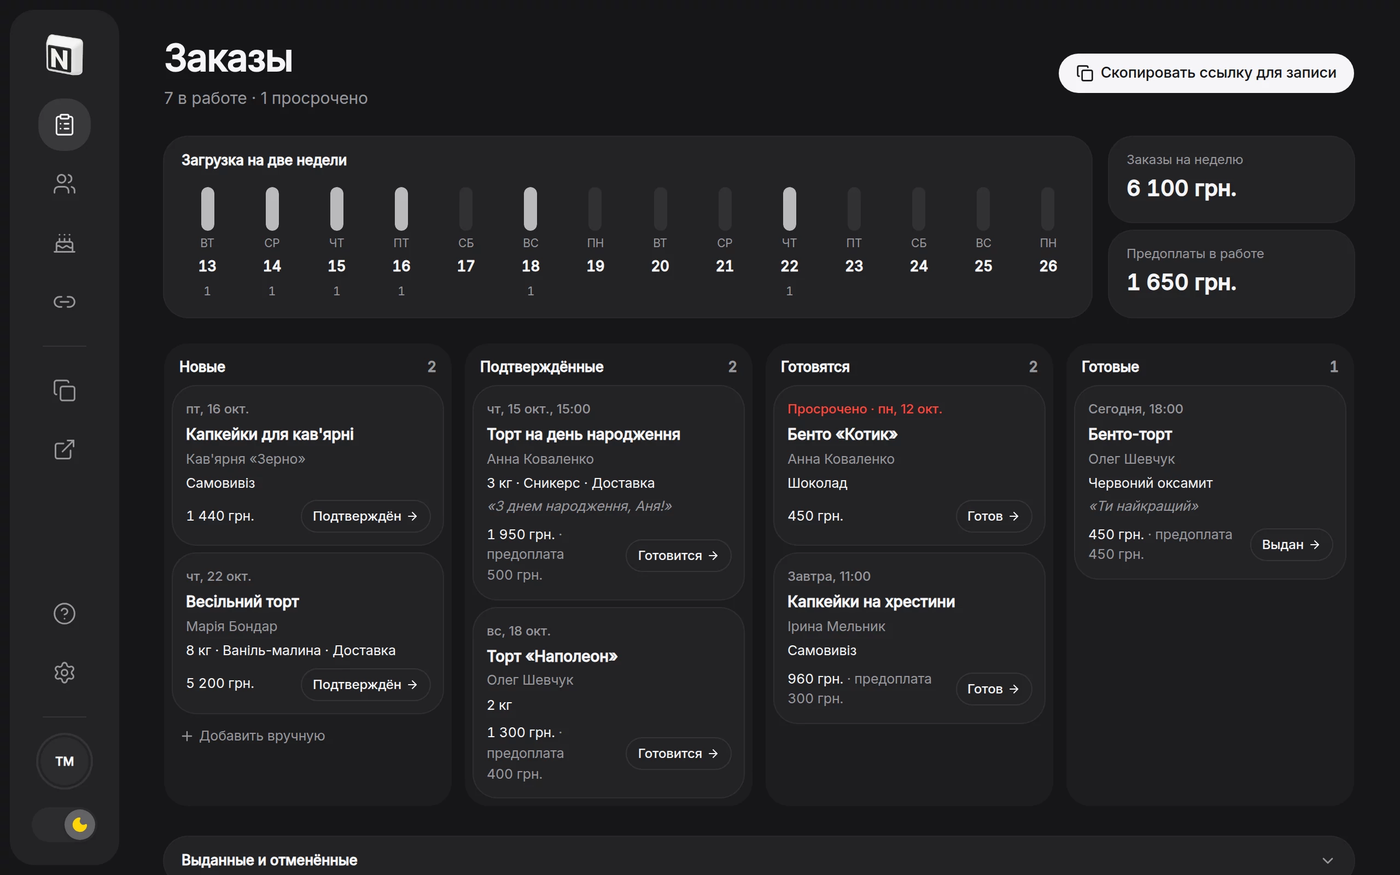
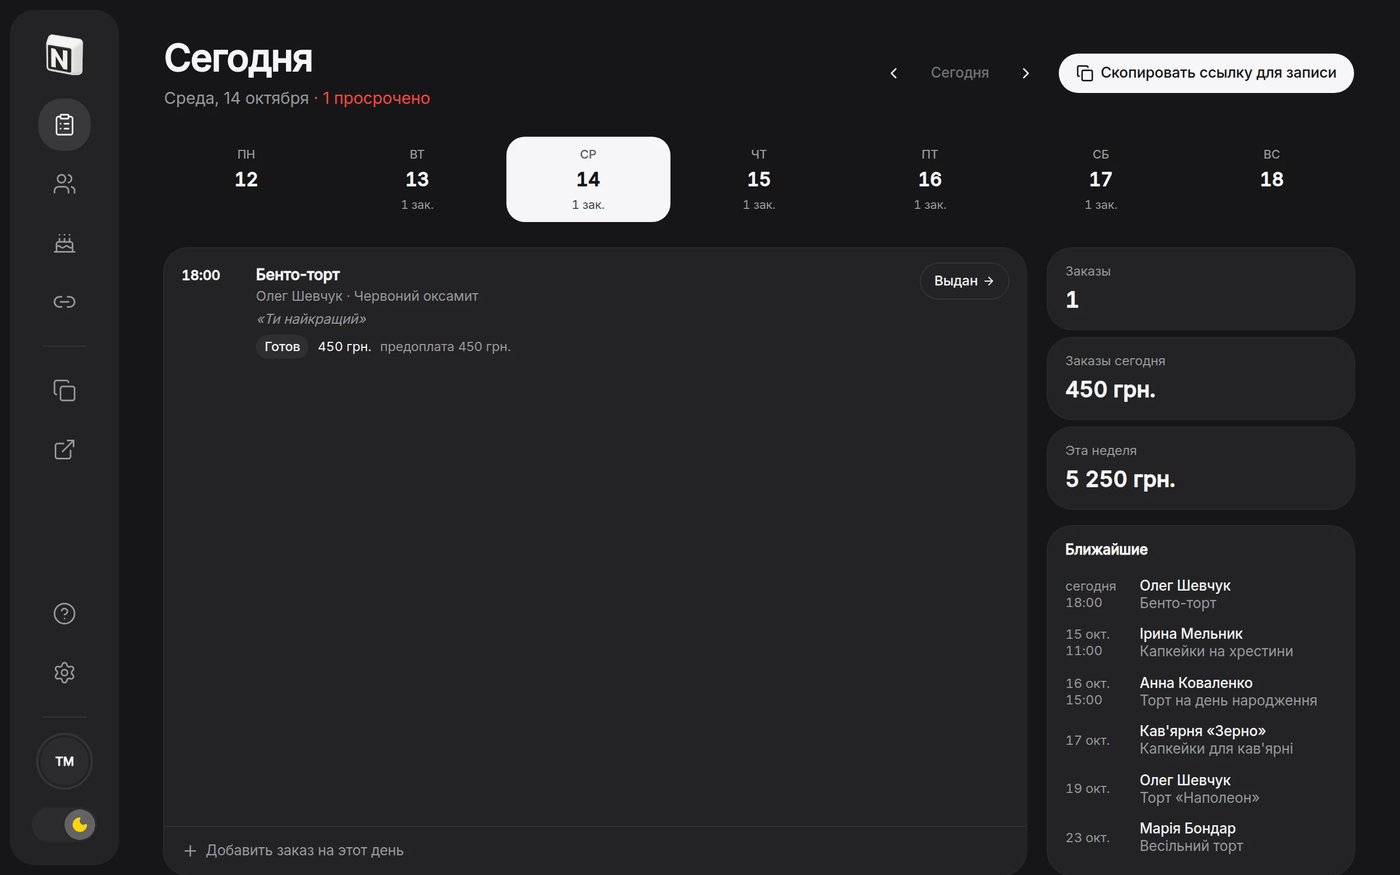
One dashboard look for every niche (#268)
- Cakes get the same screen as appointments: the day's title, its week with order
  counts, the day's orders (time or all day, stage, next step in one tap), the day's
  and week's sums and what's coming up
- The appointments timeline no longer draws a line along the card's top edge
- Landing: new cakes screenshots and wording without the old board

Claude-Session: https://claude.ai/code/session_01XHHjZcsFk6KcB3zBR7AfAW

diff --git a/src/components/crm/OrdersHome.tsx b/src/components/crm/OrdersHome.tsx
@@ -1,21 +1,21 @@
 "use client"
 
 import { useMemo, useState } from "react"
-import { ArrowRightIcon, ChevronDownIcon, PlusIcon } from "lucide-react"
+import { ArrowRightIcon, ChevronLeftIcon, ChevronRightIcon, PlusIcon } from "lucide-react"
 import type { BookingPreset } from "@/components/crm/BookingDialog"
 import { Stat } from "@/components/crm/AppointmentsHome"
 import {
-  BOARD_STATUSES, BOARD_TITLES, dayKey, money, nextOrderStatus, setBookingStatus, statusLabel,
-  type CrmBooking, type CrmData, type OrderStatus,
+  BOARD_STATUSES, dayKey, money, nextOrderStatus, setBookingStatus, statusLabel,
+  type CrmBooking, type CrmData,
 } from "@/lib/crm"
 import { cn } from "@/lib/utils"
 import { useT } from "@/lib/i18n"
 
-const LOAD_DAYS = 14
-
+function startOfDay(d: Date) { const x = new Date(d); x.setHours(0, 0, 0, 0); return x }
 function addDays(d: Date, n: number) { const x = new Date(d); x.setDate(x.getDate() + n); return x }
+function monday(d: Date) { return addDays(startOfDay(d), -((d.getDay() + 6) % 7)) }
 
-/** Cakes: orders on a board by stage, how loaded the next two weeks are, and what's handed over. */
+/** Cakes: the same screen as appointments — a day, its week, the day's orders with their next step, and what's coming. */
 export function OrdersHome({ data, onNew, onOpen, onChanged, cta }: {
   data: CrmData
   /** The main button: the booking link. */
@@ -25,33 +25,23 @@ export function OrdersHome({ data, onNew, onOpen, onChanged, cta }: {
   onChanged: (booking: CrmBooking) => void
 }) {
   const { t, locale } = useT()
-  const [day, setDay] = useState<string | null>(null)
-  const [showDone, setShowDone] = useState(false)
+  const [day, setDay] = useState(() => startOfDay(new Date()))
   const [error, setError] = useState<string | null>(null)
 
   const today = new Date()
   const todayKey = dayKey(today)
-  const tomorrowKey = dayKey(addDays(today, 1))
+  const isToday = dayKey(day) === todayKey
   const clients = useMemo(() => new Map(data.clients.map((c) => [c.id, c])), [data.clients])
   const orders = useMemo(() => data.bookings.filter((b) => b.kind === "order" && b.due_on), [data.bookings])
   const open = orders.filter((o) => (BOARD_STATUSES as string[]).includes(o.status))
-  const finished = orders.filter((o) => o.status === "delivered" || o.status === "cancelled")
-    .sort((a, b) => b.due_on!.localeCompare(a.due_on!)).slice(0, 30)
-  const load = Array.from({ length: LOAD_DAYS }, (_, i) => {
-    const k = dayKey(addDays(today, i))
-    return { key: k, date: addDays(today, i), n: open.filter((o) => o.due_on === k).length }
-  })
-  const most = Math.max(1, ...load.map((d) => d.n))
   const overdue = open.filter((o) => o.due_on! < todayKey && o.status !== "ready")
-  const shown = day ? open.filter((o) => o.due_on === day) : open
-  const weekEnd = dayKey(addDays(today, 6))
-  const weekMoney = orders.filter((o) => o.status !== "cancelled" && o.due_on! >= todayKey && o.due_on! <= weekEnd).reduce((s, o) => s + (o.price ?? 0), 0)
-
-  const dueLabel = (o: CrmBooking) => {
-    const d = o.due_on === todayKey ? t("Today") : o.due_on === tomorrowKey ? t("Tomorrow")
-      : new Date(`${o.due_on}T00:00:00`).toLocaleDateString(locale, { weekday: "short", day: "numeric", month: "short" })
-    return o.due_time ? `${d}, ${o.due_time}` : d
-  }
+  const week = Array.from({ length: 7 }, (_, i) => addDays(monday(day), i))
+  const weekKeys = new Set(week.map(dayKey))
+  const dayOrders = orders.filter((o) => o.due_on === dayKey(day))
+    .sort((a, b) => Number(a.status === "cancelled") - Number(b.status === "cancelled") || (a.due_time || "99").localeCompare(b.due_time || "99"))
+  const dayMoney = dayOrders.filter((o) => o.status !== "cancelled").reduce((s, o) => s + (o.price ?? 0), 0)
+  const weekMoney = orders.filter((o) => o.status !== "cancelled" && weekKeys.has(o.due_on!)).reduce((s, o) => s + (o.price ?? 0), 0)
+  const upcoming = open.filter((o) => o.due_on! >= todayKey).sort((a, b) => (a.due_on! + (a.due_time || "99")).localeCompare(b.due_on! + (b.due_time || "99"))).slice(0, 6)
 
   async function advance(o: CrmBooking) {
     const next = nextOrderStatus(o.status)
@@ -71,108 +61,106 @@ export function OrdersHome({ data, onNew, onOpen, onChanged, cta }: {
 
   return (
     <div className="mx-auto flex min-h-0 w-full max-w-6xl flex-1 flex-col gap-6 p-5 sm:p-8">
-      <div className="flex flex-wrap items-center gap-3">
-        <div className="min-w-0 flex-1">
-          <h1 className="text-[30px] leading-tight font-semibold tracking-[-0.02em] sm:text-[34px]">{t("Orders")}</h1>
-          <p className="mt-1 text-[15px] text-muted-foreground">{t("{n} in work", { n: open.length })}{overdue.length ? ` · ${t("{n} overdue", { n: overdue.length })}` : ""}</p>
+      {/* day and week, like the appointments screen */}
+      <div className="flex flex-wrap items-center gap-x-3 gap-y-2">
+        <div className="w-full min-w-0 sm:w-auto sm:flex-1">
+          <h1 className="text-[30px] leading-tight font-semibold tracking-[-0.02em] first-letter:uppercase sm:text-[34px]">
+            {isToday ? t("Today") : day.toLocaleDateString(locale, { weekday: "long" })}
+          </h1>
+          <p className="mt-1 text-[15px] text-muted-foreground first-letter:uppercase">
+            {day.toLocaleDateString(locale, { weekday: isToday ? "long" : undefined, day: "numeric", month: "long" })}
+            {overdue.length ? <span className="text-destructive"> · {t("{n} overdue", { n: overdue.length })}</span> : null}
+          </p>
         </div>
-        {cta}
+        <div className="flex items-center gap-1">
+          <button type="button" aria-label={t("Previous day")} onClick={() => setDay(addDays(day, -1))} className="flex size-9 items-center justify-center rounded-lg hover:bg-hover"><ChevronLeftIcon className="size-4" /></button>
+          <button type="button" onClick={() => setDay(startOfDay(new Date()))} disabled={isToday} className="h-9 rounded-lg px-3 text-[13px] font-medium hover:bg-hover disabled:opacity-40">{t("Today")}</button>
+          <button type="button" aria-label={t("Next day")} onClick={() => setDay(addDays(day, 1))} className="flex size-9 items-center justify-center rounded-lg hover:bg-hover"><ChevronRightIcon className="size-4" /></button>
+        </div>
+        <div className="ml-auto sm:ml-0">{cta}</div>
       </div>
 
-      <div className="grid gap-4 lg:grid-cols-[1fr_auto]">
-        {/* the next two weeks */}
-        <div className="rounded-[22px] apple-card p-3">
-          <div className="flex items-center justify-between px-1 pb-2">
-            <p className="text-[13px] font-semibold">{t("Load for two weeks")}</p>
-            {day && <button type="button" onClick={() => setDay(null)} className="text-[12.5px] text-muted-foreground hover:text-foreground">{t("Show all")}</button>}
-          </div>
-          <div className="grid grid-cols-7 gap-1 sm:grid-cols-14">
-            {load.map((d) => (
-              <button key={d.key} type="button" onClick={() => setDay(day === d.key ? null : d.key)} title={d.date.toLocaleDateString(locale, { weekday: "long", day: "numeric", month: "long" })}
-                className={cn("flex flex-col items-center gap-1 rounded-lg py-1.5 transition-colors", day === d.key ? "bg-foreground text-background" : "hover:bg-hover")}>
-                <span className="flex h-10 w-3 items-end overflow-hidden rounded-full bg-foreground/[0.07]">
-                  <span className={cn("w-full rounded-full", day === d.key ? "bg-background" : "bg-foreground/70")} style={{ height: `${(d.n / most) * 100}%` }} />
-                </span>
-                <span className={cn("text-[10.5px] uppercase", day === d.key ? "opacity-70" : "text-muted-foreground")}>{d.date.toLocaleDateString(locale, { weekday: "short" })}</span>
-                <span className="text-[13px] font-semibold tabular-nums">{d.date.getDate()}</span>
-                <span className={cn("h-3.5 text-[11px] tabular-nums", day === d.key ? "opacity-80" : "text-muted-foreground")}>{d.n || ""}</span>
-              </button>
-            ))}
-          </div>
-        </div>
-        <div className="grid grid-cols-2 gap-2 lg:w-56 lg:grid-cols-1">
-          <Stat label={t("Orders this week")} value={money(weekMoney, locale)} />
-          <Stat label={t("Prepaid, waiting")} value={money(open.reduce((s, o) => s + (o.prepaid ?? 0), 0), locale)} />
-        </div>
-      </div>
-
-      {error && <p className="text-sm text-destructive">{error}</p>}
-
-      {/* the board */}
-      <div className="-mx-4 flex min-h-0 gap-3 overflow-x-auto px-4 pb-1 sm:-mx-6 sm:px-6">
-        {BOARD_STATUSES.map((status: OrderStatus) => {
-          const items = shown.filter((o) => o.status === status).sort((a, b) => (a.due_on! + a.due_time).localeCompare(b.due_on! + b.due_time))
+      <div className="grid grid-cols-7 gap-1.5">
+        {week.map((d) => {
+          const k = dayKey(d)
+          const n = orders.filter((o) => o.due_on === k && o.status !== "cancelled").length
+          const selected = k === dayKey(day)
           return (
-            <section key={status} className="flex w-[268px] shrink-0 flex-col gap-2 rounded-2xl bg-foreground/[0.03] p-2 lg:w-auto lg:flex-1 dark:bg-white/[0.03]">
-              <h2 className="flex items-center justify-between px-1.5 pt-1 text-[13px] font-semibold">
-                {t(BOARD_TITLES[status])}<span className="text-muted-foreground tabular-nums">{items.length}</span>
-              </h2>
-              {items.map((o) => {
-                const late = o.due_on! < todayKey && o.status !== "ready"
-                const next = nextOrderStatus(o.status)
-                return (
-                  <article key={o.id} className="group flex flex-col gap-1.5 rounded-2xl apple-card p-3 transition-shadow hover:shadow-md">
-                    <button type="button" onClick={() => onOpen(o)} className="flex flex-col gap-1 text-left">
-                      <span className={cn("text-[12px] font-medium", late ? "text-destructive" : "text-muted-foreground")}>
-                        {late ? `${t("Overdue")} · ` : ""}{dueLabel(o)}
-                      </span>
-                      <span className="text-[14px] leading-snug font-semibold">{o.title}</span>
-                      <span className="truncate text-[12.5px] text-muted-foreground">{(o.client_id && clients.get(o.client_id)?.name) || t("No name")}</span>
-                      {summary(o) && <span className="text-[12.5px] leading-snug">{summary(o)}</span>}
-                      {o.details.inscription && <span className="text-[12.5px] leading-snug text-muted-foreground italic">«{o.details.inscription}»</span>}
-                    </button>
-                    <div className="flex items-center justify-between gap-2 pt-0.5">
-                      <span className="text-[12.5px] tabular-nums">
-                        {money(o.price, locale)}
-                        {o.prepaid ? <span className="text-muted-foreground"> · {t("prepaid {sum}", { sum: money(o.prepaid, locale) })}</span> : null}
-                      </span>
-                      {next && (
-                        <button type="button" onClick={() => advance(o)} title={t("Move to “{status}”", { status: t(statusLabel(next)) })}
-                          className="flex h-7 shrink-0 items-center gap-1 rounded-full px-2.5 text-[12px] font-medium ring-1 ring-border hover:bg-hover">
-                          {t(statusLabel(next))}<ArrowRightIcon className="size-3" />
-                        </button>
-                      )}
-                    </div>
-                  </article>
-                )
-              })}
-              {!items.length && <p className="px-1.5 pb-2 text-[12.5px] text-muted-foreground">{status === "new" ? t("New orders land here.") : "—"}</p>}
-              {status === "new" && (
-                <button type="button" onClick={() => onNew(day ? { dueOn: day } : undefined)} className="flex items-center gap-1 rounded-lg px-1.5 py-1 text-[12.5px] text-muted-foreground hover:bg-hover hover:text-foreground">
-                  <PlusIcon className="size-3.5" />{t("Add by hand")}
-                </button>
-              )}
-            </section>
+            <button key={k} type="button" onClick={() => setDay(d)}
+              className={cn("flex flex-col items-center gap-0.5 rounded-xl py-2 transition-colors", selected ? "bg-foreground text-background" : "hover:bg-hover")}>
+              <span className={cn("text-[11px] font-medium uppercase", selected ? "opacity-70" : "text-muted-foreground")}>{d.toLocaleDateString(locale, { weekday: "short" })}</span>
+              <span className={cn("text-[17px] font-semibold tabular-nums", !selected && k === todayKey && "underline decoration-2 underline-offset-4")}>{d.getDate()}</span>
+              <span className={cn("h-4 text-[11px] tabular-nums", selected ? "opacity-80" : "text-muted-foreground")}>{n ? t("{n} ord.", { n }) : ""}</span>
+            </button>
           )
         })}
       </div>
 
-      {/* handed over and cancelled */}
-      {finished.length > 0 && (
-        <div className="rounded-[22px] apple-card">
-          <button type="button" onClick={() => setShowDone(!showDone)} className="flex w-full items-center justify-between px-4 py-3 text-[13px] font-semibold">
-            {t("Handed over and cancelled")}
-            <ChevronDownIcon className={cn("size-4 text-muted-foreground transition-transform", showDone && "rotate-180")} />
+      {error && <p className="text-sm text-destructive">{error}</p>}
+
+      <div className="grid min-h-0 flex-1 gap-5 xl:grid-cols-[1fr_280px]">
+        {/* the day's orders: a time when there is one, the stage and the next step */}
+        <div className="flex min-h-[360px] flex-col rounded-[22px] apple-card">
+          {dayOrders.map((o, i) => {
+            const next = nextOrderStatus(o.status)
+            const late = o.due_on! < todayKey && (BOARD_STATUSES as string[]).includes(o.status) && o.status !== "ready"
+            const off = o.status === "cancelled"
+            return (
+              <div key={o.id} className={cn("flex items-start gap-3 px-4 py-3.5", i > 0 && "border-t border-border/70")}>
+                <span className="w-14 shrink-0 pt-0.5 text-[12.5px] font-semibold tabular-nums">{o.due_time || <span className="font-normal text-muted-foreground">{t("All day")}</span>}</span>
+                <button type="button" onClick={() => onOpen(o)} className="flex min-w-0 flex-1 flex-col gap-0.5 text-left">
+                  <span className={cn("text-[14px] leading-snug font-semibold", off && "text-muted-foreground line-through")}>{o.title}</span>
+                  <span className="truncate text-[12.5px] text-muted-foreground">{(o.client_id && clients.get(o.client_id)?.name) || t("No name")}{summary(o) ? ` · ${summary(o)}` : ""}</span>
+                  {o.details.inscription && <span className="text-[12.5px] leading-snug text-muted-foreground italic">«{o.details.inscription}»</span>}
+                  <span className="mt-1 flex flex-wrap items-center gap-2 text-[12px]">
+                    <span className={cn("rounded-full px-2 py-0.5 font-medium", late ? "bg-destructive/10 text-destructive" : "bg-foreground/[0.06]")}>{late ? t("Overdue") : t(statusLabel(o.status))}</span>
+                    <span className="tabular-nums">{money(o.price, locale)}</span>
+                    {o.prepaid ? <span className="text-muted-foreground">{t("prepaid {sum}", { sum: money(o.prepaid, locale) })}</span> : null}
+                  </span>
+                </button>
+                {next && (
+                  <button type="button" onClick={() => advance(o)} title={t("Move to “{status}”", { status: t(statusLabel(next)) })}
+                    className="flex h-8 shrink-0 items-center gap-1 rounded-full px-3 text-[12.5px] font-medium ring-1 ring-border hover:bg-hover">
+                    {t(statusLabel(next))}<ArrowRightIcon className="size-3" />
+                  </button>
+                )}
+              </div>
+            )
+          })}
+          {!dayOrders.length && (
+            <div className="m-auto flex flex-col items-center gap-3 p-8 text-center">
+              <p className="text-[13.5px] text-muted-foreground">{t("No orders for this day.")}</p>
+            </div>
+          )}
+          <button type="button" onClick={() => onNew({ dueOn: dayKey(day) })}
+            className="mt-auto flex items-center gap-1.5 border-t border-border/70 px-4 py-3 text-[13px] text-muted-foreground hover:text-foreground">
+            <PlusIcon className="size-4" />{t("Add an order for this day")}
           </button>
-          {showDone && finished.map((o) => (
-            <button key={o.id} type="button" onClick={() => onOpen(o)} className="flex w-full items-center gap-3 border-t border-border px-4 py-2.5 text-left text-[13px] hover:bg-hover">
-              <span className="w-24 shrink-0 text-muted-foreground">{dueLabel(o)}</span>
-              <span className={cn("min-w-0 flex-1 truncate", o.status === "cancelled" && "text-muted-foreground line-through")}>{o.title} · {(o.client_id && clients.get(o.client_id)?.name) || t("No name")}</span>
-              <span className="shrink-0 tabular-nums">{money(o.price, locale)}</span>
-            </button>
-          ))}
         </div>
-      )}
+
+        {/* the day in numbers and what's next */}
+        <div className="flex flex-col gap-4">
+          <div className="grid grid-cols-3 gap-2 xl:grid-cols-1">
+            <Stat label={t("Orders")} value={String(dayOrders.filter((o) => o.status !== "cancelled").length)} />
+            <Stat label={isToday ? t("Today's orders") : t("Day's orders")} value={money(dayMoney, locale)} />
+            <Stat label={t("This week")} value={money(weekMoney, locale)} />
+          </div>
+          <div className="rounded-[22px] apple-card p-3">
+            <p className="px-1 pb-2 text-[13px] font-semibold">{t("Coming up")}</p>
+            {upcoming.length ? upcoming.map((o) => (
+              <button key={o.id} type="button" onClick={() => { setDay(new Date(`${o.due_on}T00:00:00`)); onOpen(o) }} className="flex w-full items-center gap-3 rounded-lg px-1 py-1.5 text-left hover:bg-hover">
+                <span className="w-14 shrink-0 text-[12px] leading-tight text-muted-foreground tabular-nums">
+                  {o.due_on === todayKey ? t("today") : new Date(`${o.due_on}T00:00:00`).toLocaleDateString(locale, { day: "numeric", month: "short" })}{o.due_time ? <><br />{o.due_time}</> : null}
+                </span>
+                <span className="min-w-0 flex-1 text-[13px] leading-tight">
+                  <span className="block truncate font-medium">{(o.client_id && clients.get(o.client_id)?.name) || t("No name")}</span>
+                  <span className="block truncate text-muted-foreground">{o.title}</span>
+                </span>
+              </button>
+            )) : <p className="px-1 pb-1 text-[13px] text-muted-foreground">{t("Nothing ordered ahead yet.")}</p>}
+          </div>
+        </div>
+      </div>
     </div>
   )
 }

diff --git a/src/components/landing/SalonLanding.tsx b/src/components/landing/SalonLanding.tsx
@@ -158,7 +158,7 @@ function Niches({ t }: { t: T }) {
     { id: "nails", tab: t("Nails"), title: t("For nail masters"), points: [t("Services with time and price"), t("Only free windows on the page"), t("Every client's history")] },
     { id: "barber", tab: t("Barbershop"), title: t("For barbershops"), points: [t("Haircuts and beards by the slot"), t("No double bookings"), t("Regulars found by phone")] },
     { id: "tattoo", tab: t("Tattoo"), title: t("For tattoo artists"), points: [t("Long sessions in the calendar"), t("Sketch, placement and size in the notes"), t("Regulars and their work history")] },
-    { id: "cakes", tab: t("Cakes"), title: t("For cakes to order"), points: [t("Orders by day, not by hour"), t("Filling, weight, inscription"), t("A board from new to delivered")] },
+    { id: "cakes", tab: t("Cakes"), title: t("For cakes to order"), points: [t("Orders by day, not by hour"), t("Filling, weight, inscription"), t("Every order's next step in one tap")] },
   ]
   const [on, setOn] = useState<CrmNiche>("nails")
   const cur = items.find((i) => i.id === on)!
@@ -228,7 +228,7 @@ function How({ t }: { t: T }) {
 function Features({ t }: { t: T }) {
   const rows = [
     { icon: Link2Icon, title: t("Your page with online booking"), text: t("Work, reviews, contacts and booking, open day and night.") },
-    { icon: CalendarDaysIcon, title: t("A calendar that fills itself"), text: t("The day by the hour and what it earns. Cakes get an order board.") },
+    { icon: CalendarDaysIcon, title: t("A calendar that fills itself"), text: t("The day, its week and what it earns. Cakes see their orders by day.") },
     { icon: UsersIcon, title: t("Client base"), text: t("Phone, notes and every visit, gathered on their own.") },
     { icon: BellIcon, title: t("Telegram notices"), text: t("A message the moment someone books.") },
     { icon: QrCodeIcon, title: t("QR code"), text: t("For cards and the counter.") },
@@ -261,7 +261,7 @@ function Features({ t }: { t: T }) {
 
 function Price({ t, start, startLabel }: { t: T; start: string; startLabel: string }) {
   const included = [
-    t("Your page with online booking"), t("Unlimited bookings and clients"), t("Calendar or order board"),
+    t("Your page with online booking"), t("Unlimited bookings and clients"), t("Calendar of bookings or orders"),
     t("Telegram notices"), t("QR code and statistics"), t("Works on the phone and the computer"),
   ]
   return (

diff --git a/src/lib/i18n-uk.ts b/src/lib/i18n-uk.ts
@@ -1,5 +1,15 @@
 // Ukrainian UI strings. Keys are the English text used in the code (see useT in ./i18n).
 export const uk: Record<string, string> = {
+  "Every order's next step in one tap": "Наступний крок замовлення в один дотик",
+  "The day, its week and what it earns. Cakes see their orders by day.": "День, його тиждень і скільки він приніс. Торти бачать замовлення по днях.",
+  "Calendar of bookings or orders": "Календар записів або замовлень",
+  "{n} ord.": "{n} зам.",
+  "All day": "Весь день",
+  "No orders for this day.": "На цей день замовлень немає.",
+  "Add an order for this day": "Додати замовлення на цей день",
+  "Today's orders": "Замовлення сьогодні",
+  "Day's orders": "Замовлення за день",
+  "Nothing ordered ahead yet.": "Наперед поки нічого не замовили.",
   "Tattoo studio": "Тату-студія",
   "Sessions by time, sketches and regulars": "Сеанси за часом, ескізи й постійні клієнти",
   "Artist": "Майстер",

diff --git a/src/lib/i18n-ru.ts b/src/lib/i18n-ru.ts
@@ -1,5 +1,15 @@
 // Russian UI strings. Keys are the English text used in the code (see useT in ./i18n).
 export const ru: Record<string, string> = {
+  "Every order's next step in one tap": "Следующий шаг заказа в одно касание",
+  "The day, its week and what it earns. Cakes see their orders by day.": "День, его неделя и сколько он принёс. Торты видят заказы по дням.",
+  "Calendar of bookings or orders": "Календарь записей или заказов",
+  "{n} ord.": "{n} зак.",
+  "All day": "Весь день",
+  "No orders for this day.": "На этот день заказов нет.",
+  "Add an order for this day": "Добавить заказ на этот день",
+  "Today's orders": "Заказы сегодня",
+  "Day's orders": "Заказы за день",
+  "Nothing ordered ahead yet.": "Наперёд пока ничего не заказали.",
   "Tattoo studio": "Тату-студия",
   "Sessions by time, sketches and regulars": "Сеансы по времени, эскизы и постоянные клиенты",
   "Artist": "Мастер",

diff --git a/src/components/crm/AppointmentsHome.tsx b/src/components/crm/AppointmentsHome.tsx
@@ -41,7 +41,7 @@ function lanes(items: CrmBooking[]) {
   return out
 }
 
-/** Nails and barbershop: the day's appointments on a timeline, a week strip and the day's money. */
+/** Nails, barbershop and tattoo: the day's appointments on a timeline, a week strip and the day's money. */
 export function AppointmentsHome({ data, onNew, onOpen, cta }: {
   data: CrmData
   /** The main button: the booking link. */
@@ -146,7 +146,7 @@ export function AppointmentsHome({ data, onNew, onOpen, cta }: {
             </div>
             <div className="relative flex-1 cursor-copy" onClick={clickSlot} title={t("Click a free time to book it")}>
               {Array.from({ length: to - from }, (_, i) => (
-                <div key={i} className="border-t border-border/70" style={{ height: HOUR_PX }}>
+                <div key={i} className={cn(i > 0 && "border-t border-border/70")} style={{ height: HOUR_PX }}>
                   <div className="h-1/2 border-b border-dashed border-border/40" />
                 </div>
               ))}
